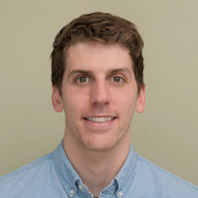
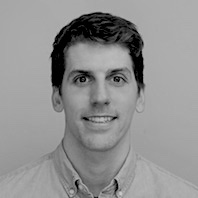
more edits

diff --git a/index.html b/index.html
@@ -71,10 +71,6 @@ and communicate their data through consulting and teaching." />
 
 					<!-- Two -->
                     <section class="wrapper style2">
-                        <header>
-                            <h2>What we offer</h2>
-                            <br>
-                            </header>
                             <div class="row">
 								<div class="6u 12u(narrower)">
                                         <div class="image featured"><img src="images/laptop_app.png" style="max-width: 500px;"></div>
@@ -119,7 +115,6 @@ and communicate their data through consulting and teaching." />
                     <!-- Three -->
 						<section class="wrapper style5">
                             <h2>Our Clients</h2>
-                            <p>We are grateful for the opportunity to have worked with</p>
                             <div id="clients">
                                     <div class="image">
                                        <img src="images/clients/bohemia.jpg" alt="" />

diff --git a/assets/css/main.css b/assets/css/main.css
@@ -2380,15 +2380,21 @@
 			background: #fff;
 			color: inherit;
 			padding: 1em;
-            margin-left: 4em;
+            margin-left: 1em;
+            padding-bottom: 6em;
             text-align: center;
         }
 
         .wrapper.style5 #clients .image img {
 			display: inline-block;
-            max-width: 200px;
+            max-width: 150px;
             vertical-align: middle;
             margin: 1em;
+            filter:grayscale(100%);
+		}
+
+        .wrapper.style5 #clients .image img:hover {
+            filter:grayscale(0%);
 		}
 
    .wrapper.style6 {
@@ -2405,7 +2411,6 @@
 .wrapper.style6 h3 {
         font-size: 2.5em;
         font-weight: 600;
-		letter-spacing: 0.1em;
         color: rgb(187,187,187);
         }
 
@@ -3559,6 +3564,7 @@
         }
 
         /* Clients */
+
         .wrapper.style5 #clients .image img {
 			display: inline-block;
             max-width: 200px;

diff --git a/about.html b/about.html
@@ -120,7 +120,7 @@
 								<div class="4u 12u(narrower)">
 
 									<section>
-                                        <img src="images/xing.jpg" alt="" />
+                                        <img src="images/xing.jpeg" alt="" />
 										<header>
 											<h3>Xing</h3>
 										</header>
